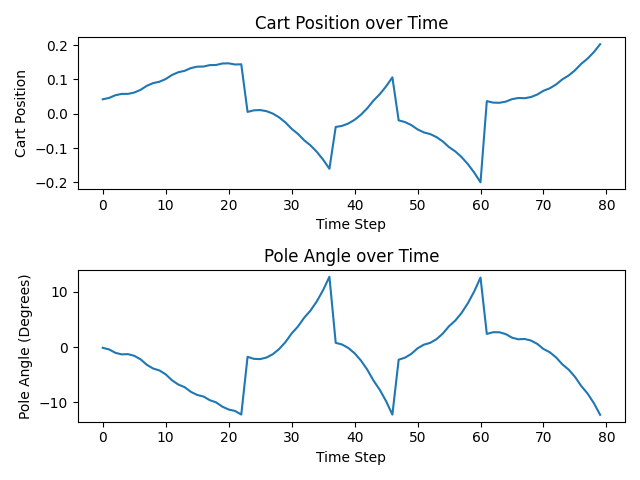
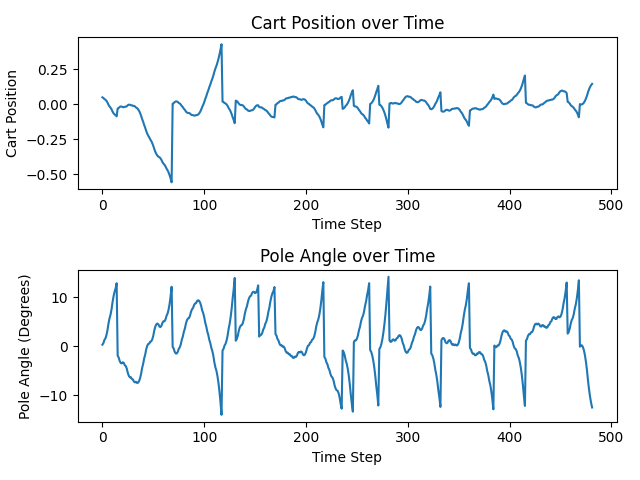
Cartpole Errors removed and animation video added

diff --git a/CartPole/main.py b/CartPole/main.py
@@ -4,7 +4,7 @@ import time
 import matplotlib.pyplot as plt
 
 # create environment
-env = gym.make('CartPole-v1', render_mode='rgb_array')
+env = gym.make('CartPole-v1', render_mode='human')
 
 # reset the environment, returns an initial state
 (state, _) = env.reset()
@@ -16,7 +16,7 @@ env.render()
 env.step(0)
 
 # simulate the environment
-episodeNumber = 5
+episodeNumber = 20
 timeSteps = 100
 positions = []
 angles = []
@@ -32,9 +32,9 @@ for episodeIndex in range(episodeNumber):
             random_action)  # we collect the info of each step
         positions.append(observation[0])
         angles.append(np.degrees(observation[2]))  # Convert angle to degrees
-        time.sleep(0.1)
+        time.sleep(0.05)
         if terminated:
-            time.sleep(1)
+            time.sleep(0.1)
             break
 
 # Plot the cart positions
